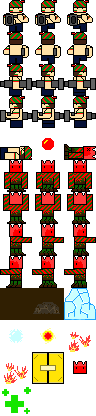
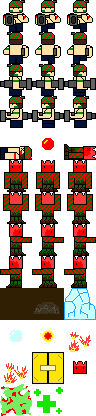
add slow trap

Changed region(s): [[0.0, 0.9062, 0.6562, 1.0]]

diff --git a/ReadMe.md b/ReadMe.md
@@ -36,3 +36,7 @@ cmake --build build --target install
 # 体积过大
 
 游戏最后的可执行文件和库是经过压缩的（先`strip`再`upx`），最后结果超出1M很正常。
+
+# 游戏截图
+
+![snapshot](./snapshot/snapshot.png)
